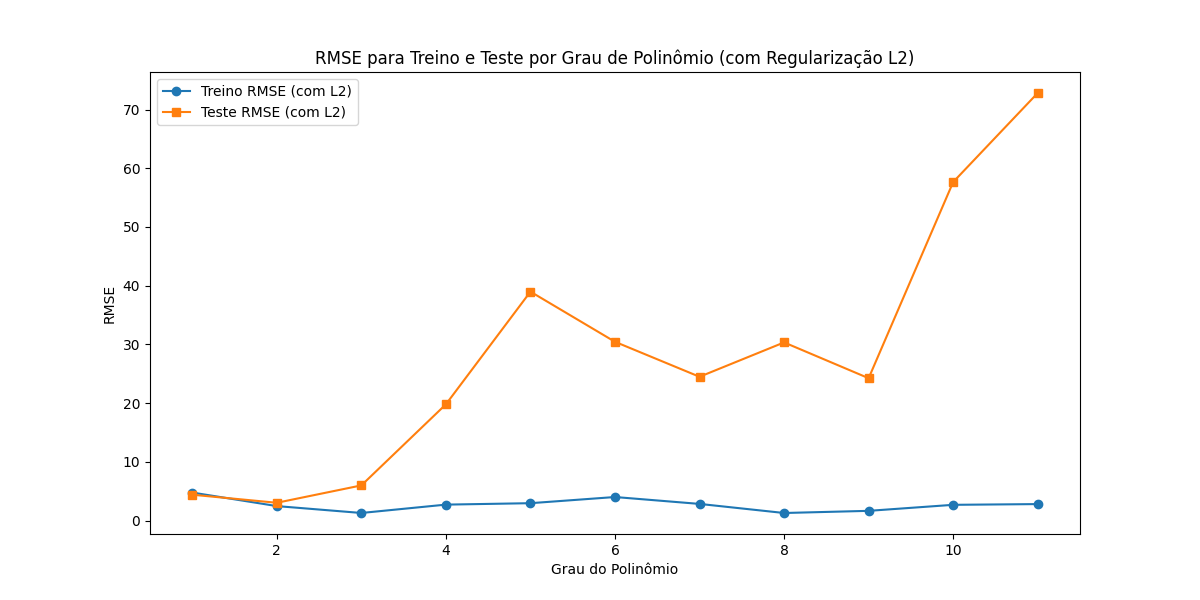
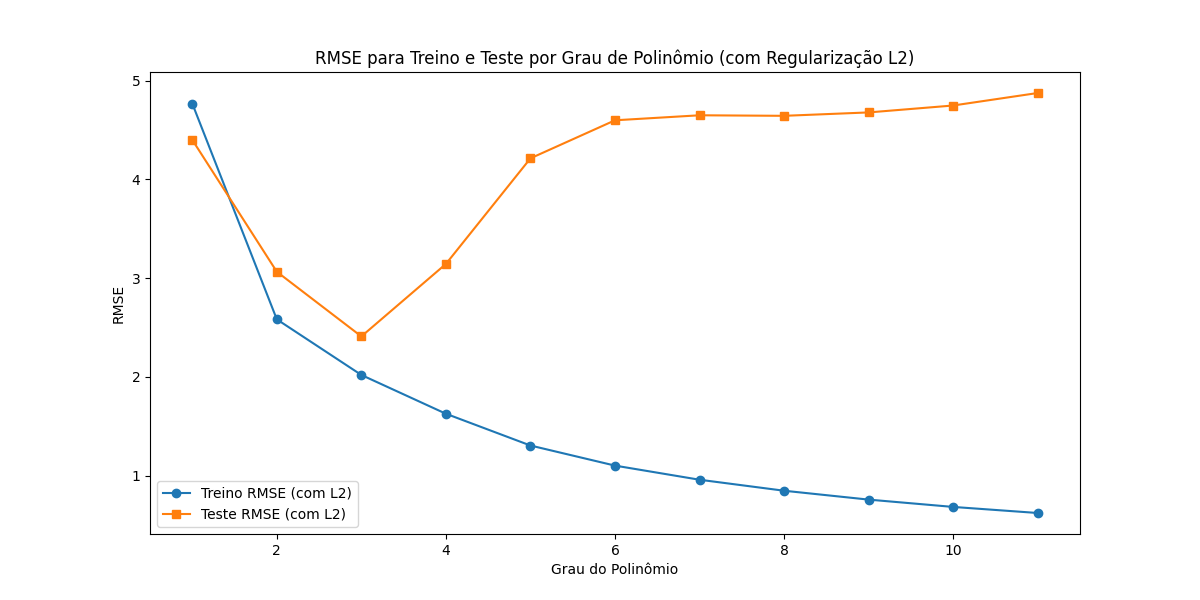
ajuste das funções e normalização

diff --git a/lista02.py b/lista02.py
@@ -1,23 +1,46 @@
-import os
-import pandas as pd
 import numpy as np
+import pandas as pd
+import os
 import matplotlib.pyplot as plt
 from sklearn.model_selection import train_test_split
 from sklearn.preprocessing import PolynomialFeatures
 from sklearn.linear_model import LinearRegression, Ridge
 from sklearn.metrics import mean_squared_error
 
-# Verifique se a pasta "imagens" existe, caso contrário, crie-a
 if not os.path.exists("imagens"):
     os.makedirs("imagens")
 
+
+# Função para normalizar os dados com base no conjunto de treino
+def normalizar_treino(X_train):
+    min_val = X_train.min(axis=0)
+    max_val = X_train.max(axis=0)
+    X_train_normalizado = (X_train - min_val) / (max_val - min_val)
+    return X_train_normalizado, min_val, max_val
+
+
+def normalizar_teste(X_test, min_val, max_val):
+    X_test_normalizado = (X_test - min_val) / (max_val - min_val)
+    return X_test_normalizado
+
+
+# Função para calcular o RMSE
+def calcular_rmse(y_true, y_pred):
+    return np.sqrt(mean_squared_error(y_true, y_pred))
+
+
 # Carregar o conjunto de dados
 data = pd.read_csv("boston.csv")
-X = data.iloc[:, :-1].values  # Atributos (13 primeiras colunas)
-y = data.iloc[:, -1].values   # Alvo (preço das casas, última coluna)
+X = data.iloc[:, :-1].values
+y = data.iloc[:, -1].values
 
 # Dividir o conjunto de dados em treino (80%) e teste (20%)
 X_train, X_test, y_train, y_test = train_test_split(X, y, test_size=0.2, random_state=42)
+
+# Normalizar apenas o conjunto de treino e aplicar a mesma escala ao conjunto de teste
+X_train_normalizado, min_val, max_val = normalizar_treino(X_train)
+
+X_test_normalizado = normalizar_teste(X_test, min_val, max_val)
 
 # Listas para armazenar os RMSEs
 train_rmse = []
@@ -27,30 +50,42 @@ test_rmse_ridge = []
 
 # Treinamento dos modelos de regressão polinomial de ordem 1 a 11, sem e com regularização L2
 for degree in range(1, 12):
+    print(f"\n=== Treinando modelo de grau {degree} ===")
+
     # Transformação polinomial
     poly = PolynomialFeatures(degree)
-    X_train_poly = poly.fit_transform(X_train)
-    X_test_poly = poly.transform(X_test)
-    
+    X_train_poly = poly.fit_transform(X_train_normalizado)
+    X_test_poly = poly.transform(X_test_normalizado)
+
     # Regressão Polinomial (sem regularização)
     model = LinearRegression()
     model.fit(X_train_poly, y_train)
-    
+
     # Calcular RMSE para treino e teste
     y_train_pred = model.predict(X_train_poly)
     y_test_pred = model.predict(X_test_poly)
-    train_rmse.append(np.sqrt(mean_squared_error(y_train, y_train_pred)))
-    test_rmse.append(np.sqrt(mean_squared_error(y_test, y_test_pred)))
-    
+    train_rmse_value = calcular_rmse(y_train, y_train_pred)
+    test_rmse_value = calcular_rmse(y_test, y_test_pred)
+    train_rmse.append(train_rmse_value)
+    test_rmse.append(test_rmse_value)
+
+    print(f"RMSE Treino (sem L2) para grau {degree}: {train_rmse_value}")
+    print(f"RMSE Teste (sem L2) para grau {degree}: {test_rmse_value}")
+
     # Regressão Polinomial com Regularização L2 (Ridge Regression)
     ridge_model = Ridge(alpha=0.01)
     ridge_model.fit(X_train_poly, y_train)
-    
+
     # Calcular RMSE para treino e teste com L2
     y_train_pred_ridge = ridge_model.predict(X_train_poly)
     y_test_pred_ridge = ridge_model.predict(X_test_poly)
-    train_rmse_ridge.append(np.sqrt(mean_squared_error(y_train, y_train_pred_ridge)))
-    test_rmse_ridge.append(np.sqrt(mean_squared_error(y_test, y_test_pred_ridge)))
+    train_rmse_ridge_value = calcular_rmse(y_train, y_train_pred_ridge)
+    test_rmse_ridge_value = calcular_rmse(y_test, y_test_pred_ridge)
+    train_rmse_ridge.append(train_rmse_ridge_value)
+    test_rmse_ridge.append(test_rmse_ridge_value)
+
+    print(f"RMSE Treino (com L2) para grau {degree}: {train_rmse_ridge_value}")
+    print(f"RMSE Teste (com L2) para grau {degree}: {test_rmse_ridge_value}")
 
 # Plotar os resultados dos RMSEs para treino e teste (sem regularização)
 plt.figure(figsize=(12, 6))
@@ -60,7 +95,7 @@ plt.xlabel("Grau do Polinômio")
 plt.ylabel("RMSE")
 plt.title("RMSE para Treino e Teste por Grau de Polinômio (sem Regularização)")
 plt.legend()
-plt.savefig("imagens/rmse_sem_regularizacao.png")  # Salva a imagem
+plt.savefig("imagens/rmse_sem_regularizacao.png")
 plt.show()
 
 # Plotar os resultados dos RMSEs para treino e teste (com regularização L2)
@@ -71,5 +106,6 @@ plt.xlabel("Grau do Polinômio")
 plt.ylabel("RMSE")
 plt.title("RMSE para Treino e Teste por Grau de Polinômio (com Regularização L2)")
 plt.legend()
-plt.savefig("imagens/rmse_com_regularizacao_l2.png")  # Salva a imagem
+plt.savefig("imagens/rmse_com_regularizacao_l2.png")
 plt.show()
+
